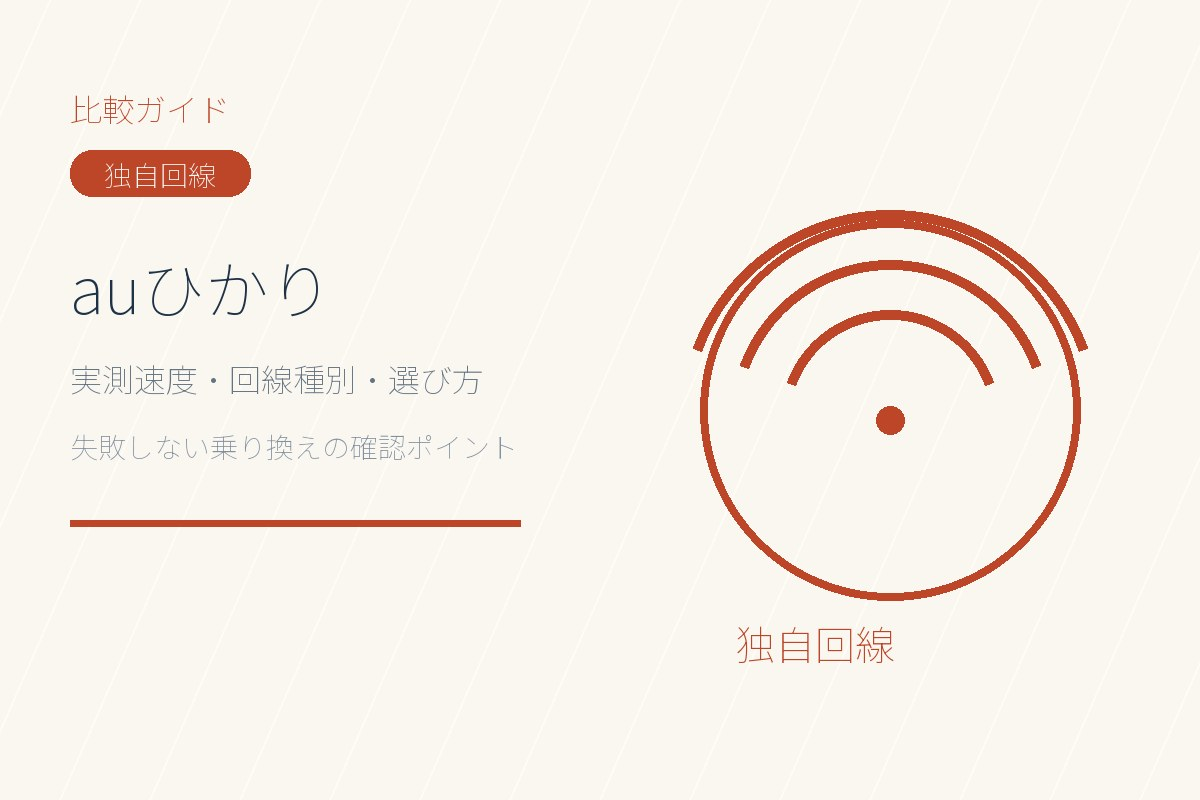
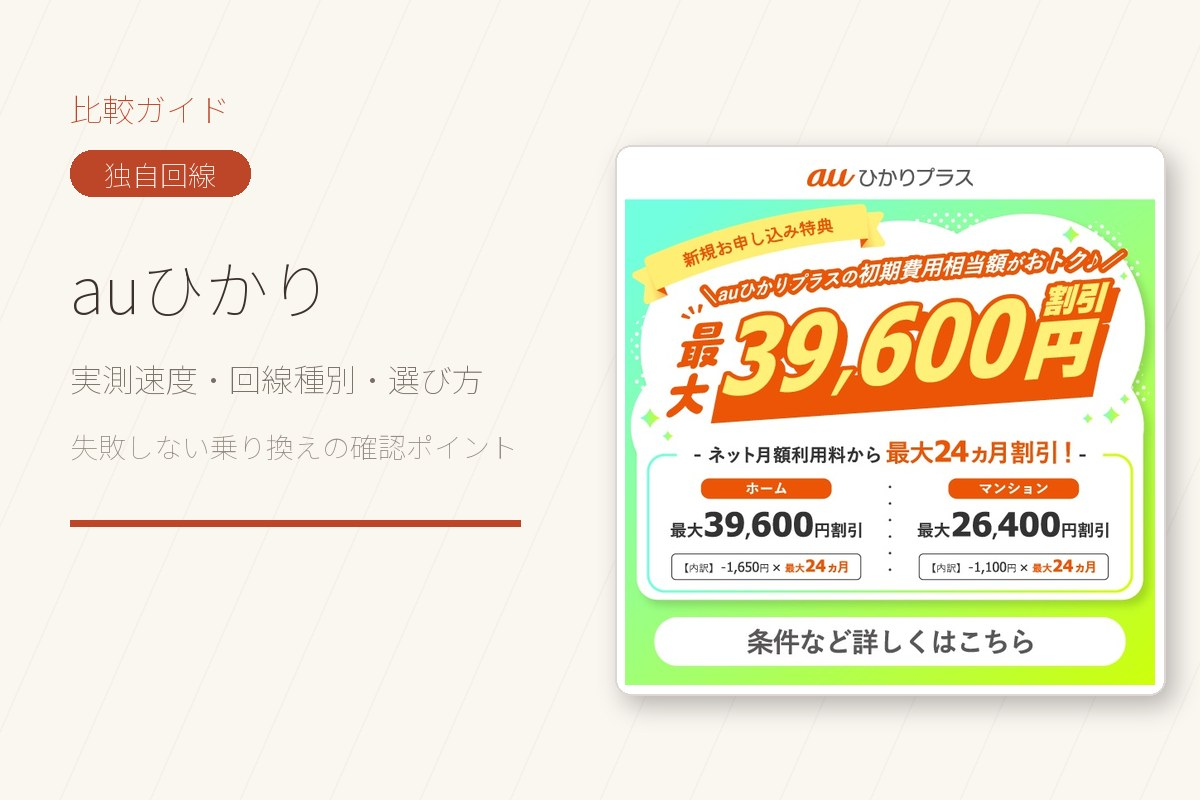
feat: NURO/auの画像を公式サイト画像に差し替え

Changed region(s): [[0.4933, 0.1875, 0.9867, 0.9062]]

diff --git a/scripts/make_official_images.py b/scripts/make_official_images.py
@@ -1,0 +1,64 @@
+from PIL import Image, ImageDraw, ImageFont, ImageFilter
+from pathlib import Path
+
+OUT = Path("assets")
+FONT = "C:\\Windows\\Fonts\\NotoSansJP-VF.ttf"
+W, H = 1200, 800
+
+
+def font(size):
+    return ImageFont.truetype(FONT, size)
+
+
+# NURO: use official key visual
+kv = Image.open(OUT / "official-nuro-kv.jpg").convert("RGB")
+target_ratio = W / H
+w, h = kv.size
+if w / h > target_ratio:
+    nw = int(h * target_ratio)
+    kv = kv.crop(((w - nw) // 2, 0, (w + nw) // 2, h))
+kv.resize((W, H), Image.LANCZOS).save(OUT / "nuro-hero.jpg", "JPEG", quality=88, optimize=True)
+# thumb: crop right side of KV (gamer) square
+th = Image.open(OUT / "official-nuro-kv.jpg").convert("RGB")
+tw, thh = th.size
+side = min(thh, tw // 2)
+th = th.crop((tw - side, (thh - side) // 2, tw, (thh + side) // 2)).resize((600, 600), Image.LANCZOS)
+d = ImageDraw.Draw(th)
+d.rectangle((0, 540, 600, 600), fill=(20, 50, 79))
+t = "NURO光"
+f = font(34)
+box = d.textbbox((0, 0), t, font=f)
+d.text(((600 - (box[2]-box[0])) / 2, 550), t, font=f, fill=(255, 255, 255))
+th.save(OUT / "nuro-thumb.jpg", "JPEG", quality=88, optimize=True)
+
+# au: compose official banner with text panel
+img = Image.new("RGB", (W, H), (250, 246, 240))
+d = ImageDraw.Draw(img)
+for i in range(-300, W + 300, 90):
+    d.line((i, H, i + 350, 0), fill=(245, 240, 232), width=2)
+d.text((70, 90), "比較ガイド", font=font(32), fill=(190, 70, 40))
+d.rounded_rectangle((70, 150, 250, 196), radius=22, fill=(190, 70, 40))
+box = d.textbbox((0, 0), "独自回線", font=font(28))
+d.text((160 - (box[2]-box[0])/2, 158), "独自回線", font=font(28), fill=(255, 255, 255))
+d.text((70, 250), "auひかり", font=font(64), fill=(60, 50, 45))
+d.text((70, 360), "実測速度・回線種別・選び方", font=font(32), fill=(120, 110, 100))
+d.text((70, 430), "失敗しない乗り換えの確認ポイント", font=font(28), fill=(150, 140, 130))
+d.rectangle((70, 520, 520, 526), fill=(190, 70, 40))
+
+x, y, w2, h2 = 615, 145, 550, 550
+shadow = Image.new("RGBA", img.size, (0, 0, 0, 0))
+sd = ImageDraw.Draw(shadow)
+sd.rounded_rectangle((x+8, y+10, x+w2+8, y+h2+10), radius=16, fill=(0, 0, 0, 70))
+shadow = shadow.filter(ImageFilter.GaussianBlur(12))
+img = Image.alpha_composite(img.convert("RGBA"), shadow).convert("RGB")
+d = ImageDraw.Draw(img)
+d.rounded_rectangle((x, y, x+w2, y+h2), radius=16, fill=(255, 255, 255), outline=(220, 215, 210), width=2)
+b = Image.open(OUT / "official-au-bnr06.jpg").convert("RGB").resize((w2-20, h2-20), Image.LANCZOS)
+img.paste(b, (x+10, y+10))
+img.save(OUT / "au-hero.jpg", "JPEG", quality=88, optimize=True)
+
+th = Image.open(OUT / "official-au-bnr06.jpg").convert("RGB").resize((600, 600), Image.LANCZOS)
+th.save(OUT / "au-thumb.jpg", "JPEG", quality=88, optimize=True)
+
+for n in ["nuro-hero.jpg", "nuro-thumb.jpg", "au-hero.jpg", "au-thumb.jpg"]:
+    print(n, (OUT / n).stat().st_size)

diff --git a/scripts/fetch_official_images.py b/scripts/fetch_official_images.py
@@ -1,0 +1,19 @@
+import urllib.request, pathlib
+from PIL import Image
+
+OUT = pathlib.Path("assets")
+URLS = {
+    "nuro-kv": "https://www.nuro.jp/assets/next/img/kv_2980yen-pc.jpg?v=086a9a3a75",
+    "nuro-ogp": "https://www.nuro.jp/assets/next/shared/img/ogp.jpg",
+    "au-bnr06": "https://www.au.com/content/dam/au-com/internet/images/in_internet_bnr06_f4c6dc27ce140f7f.jpg",
+    "au-bnr07": "https://www.au.com/content/dam/au-com/internet/images/in_internet_bnr07_4805bbfcc67dcfbe.jpg",
+}
+for name, url in URLS.items():
+    try:
+        req = urllib.request.Request(url, headers={"User-Agent": "Mozilla/5.0"})
+        data = urllib.request.urlopen(req, timeout=20).read()
+        p = OUT / f"official-{name}.jpg"
+        p.write_bytes(data)
+        print(name, Image.open(p).size, len(data))
+    except Exception as e:
+        print("FAIL", name, e)

diff --git a/README.md b/README.md
@@ -77,5 +77,8 @@
 
 - 出典：A8.netが配布する広告主公式バナーをネット経由で取得（`scripts/fetch_banners.py` / `fetch_more_banners.py`）
 - 生成：`scripts/make_provider_images.py` で公式バナー＋回線名・種別を合成
-- NURO光／auひかりはA8案件がなく、ロゴの商用利用制限があるため**自作の独自イラスト**を使用
-- 元バナー：`assets/provider-*.jpg` / `gmo-banner.jpg` / `jani-banner.jpg`
+- NURO光／auひかりはA8案件がないため、**各社公式サイトで公開されている画像**を取得して使用（`scripts/fetch_official_images.py` / `make_official_images.py`）
+  - NURO光：公式サイトのキービジュアル（2,880×1,620）
+  - auひかり：au公式「auひかりプラス」キャンペーンバナー（640×640）
+- 元バナー：`assets/provider-*.jpg` / `gmo-banner.jpg` / `jani-banner.jpg` / `official-*.jpg`
+- ※ 公式画像は各社の著作物です。紹介・比較目的での利用にとどめ、権利者からの要請があれば差し替えます
